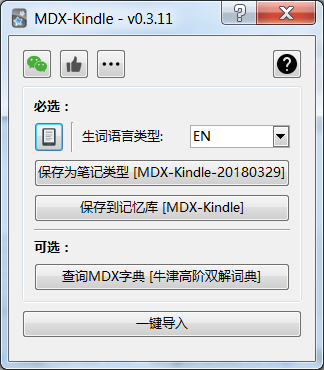
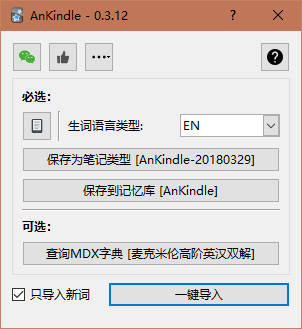
update readme

diff --git a/AnKindle/gui.py b/AnKindle/gui.py
@@ -78,18 +78,9 @@ class _SharedFrame(QFrame):
     def help_txt(self):
         if currentLang == 'zh_CN':
             loc = os.path.join(os.path.dirname(__file__), "resource", "help_cn.html")
-            loc_remote = "https://raw.githubusercontent.com/upday7/MDX-Kindle/master/MDX_Kindle/resource/help_cn.html"
         else:
             loc = os.path.join(os.path.dirname(__file__), "resource", "help_en.html")
-            loc_remote = "https://raw.githubusercontent.com/upday7/MDX-Kindle/master/MDX_Kindle/resource/help_en.html"
-        if not DEBUG:
-            try:
-                thr = Thread(target=urlretrieve, args=(loc_remote, loc))
-                thr.start()
-            except:
-                pass
         return loc
-
 
 def HLine():
     toto = QFrame()
@@ -145,7 +136,7 @@ class Window(QDialog):
 
         self.updater = AddonUpdater(
             self, _trans("AnKindle"), ADDON_CD,
-            "https://raw.githubusercontent.com/upday7/MDX-Kindle/master/MDX_Kindle/const.py",
+            "https://raw.githubusercontent.com/upday7/AnKindle/master/AnKindle/const.py",
             "",
             mw.pm.addonFolder(),
             __version__

diff --git a/AnKindle/const.py b/AnKindle/const.py
@@ -7,7 +7,7 @@ __version__ = "0.3.12"
 HAS_SET_UP = False
 ADDON_CD = 1016931132
 DEBUG = False
-MDX_LIB_URL = "https://github.com/upday7/MDX-Kindle/tree/master/MDX_Kindle/resource/MDX%20Dictionary"
+MDX_LIB_URL = "https://github.com/upday7/AnKindle/tree/master/AnKindle/resource/MDX%20Dictionary"
 DEFAULT_TEMPLATE = os.path.join(os.path.dirname(__file__), u"resource", ur"AnKindle.apkg")
 SQL_SELECT_WORDS = """
 SELECT
